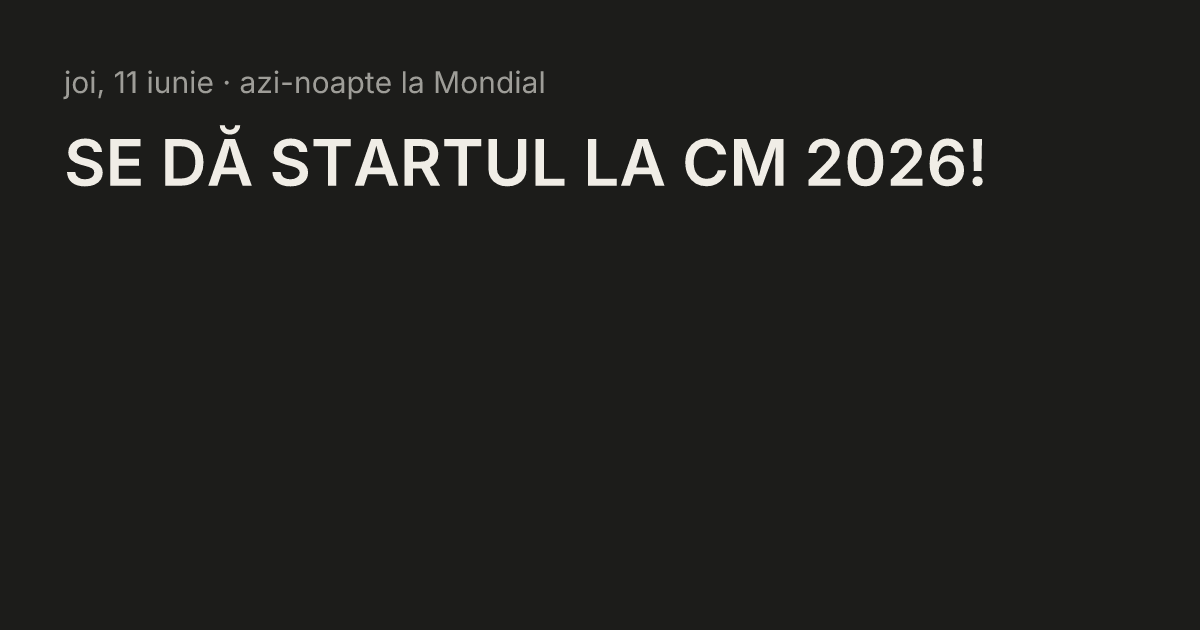
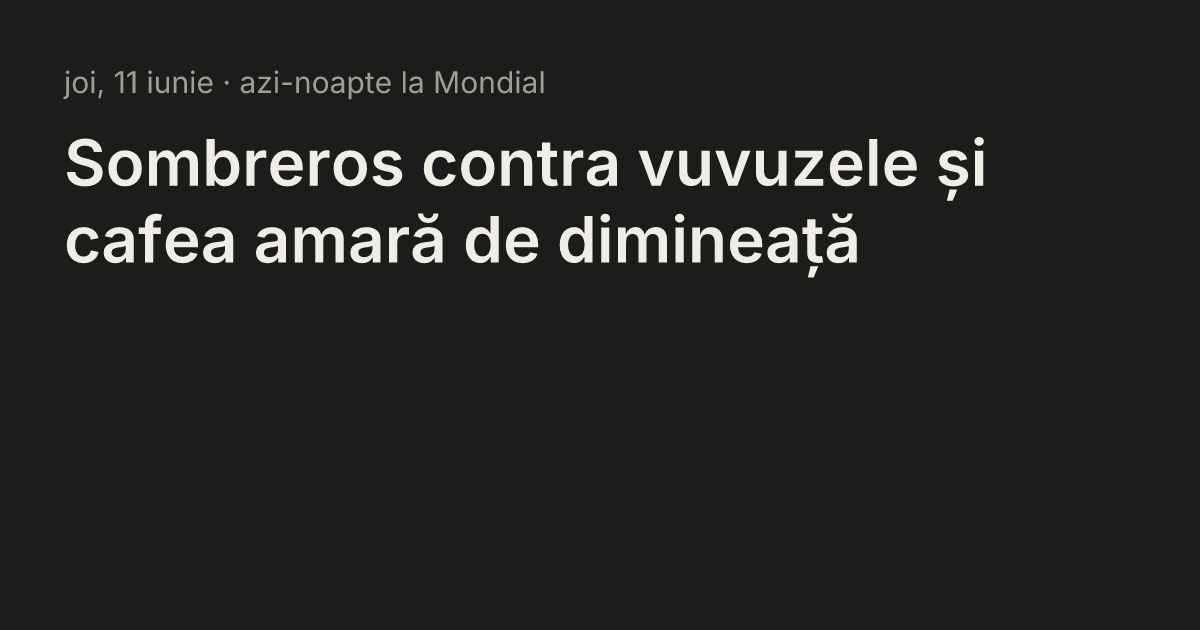
Punch up narration: switch to gemini-3-flash-preview, sharper system prompt
Old default (gemini-2.5-flash) produced generic sports-portal prose. Among the
free-tier models (3.x-pro returns 429), gemini-3-flash-preview writes far more
specific, witty Romanian grounded in the actual minutes and scorers.

Rewrote the system prompt to demand fact-anchored lines, dry humor, at most one
exclamation mark, and a banned-phrases list; forbid naming players absent from
the input (no 'notable' names for upcoming fixtures).

Changed region(s): [[0.0925, 0.181, 0.8325, 0.3317], [0.0308, 0.3317, 0.74, 0.4222]]

diff --git a/pipeline/narrate.js b/pipeline/narrate.js
@@ -7,26 +7,43 @@
 import { z } from 'zod';
 
 const GEMINI_BASE = 'https://generativelanguage.googleapis.com/v1beta/models';
-// gemini-2.5-pro has no free-tier quota (limit 0 as of June 2026) — flash does.
-const DEFAULT_MODEL = 'gemini-2.5-flash';
+// Pro tiers (gemini-2.5/3.x-pro) return 429 on the free key. Among free models,
+// gemini-3-flash-preview writes a far punchier, more specific Romanian than 2.5-flash.
+const DEFAULT_MODEL = 'gemini-3-flash-preview';
 
-const SYSTEM_PROMPT = `Ești editorul unui digest matinal despre Campionatul Mondial de fotbal 2026,
-scris pentru un grup de prieteni din România. Scrii în română, cu diacritice corecte
-(ă â î ș ț), pe un ton energic și jucăuș — „DRAMĂ!" e on-brand. Reguli stricte:
+const SYSTEM_PROMPT = `Scrii digestul de dimineață al unui grup de prieteni români care urmăresc
+Campionatul Mondial 2026. Nu ești un site de știri — ești prietenul ăla care a văzut tot și
+povestește la cafea, cu umor sec și răutăți fine. Română impecabilă, diacritice corecte (ă â î ș ț).
 
-1. Folosești DOAR faptele primite în mesaj: scoruri, marcatori, clasamente. Nu inventezi
-   niciodată goluri, marcatori, statistici sau calcule de calificare.
-2. Despre șansele de calificare vorbești prudent („pornește ca favorită",
-   „și-a complicat viața", „mare nevoie de puncte") — fără condiții exacte de tipul
-   „se califică dacă X și Y", pentru că nu ai aritmetica scenariilor.
-3. „pill" = pastila de consecințe: maximum 3 propoziții despre ce înseamnă rezultatul.
-4. „drama" = nota de dramatism 1–5 (1 = plictisitor, 5 = nebunie totală).
-5. Pentru meciurile din noaptea următoare: „alarm" este „stai treaz" doar dacă meciul
-   chiar merită sacrificat somnul, altfel „citești dimineața"; „why" explică într-o
-   propoziție de ce.
-6. „headline" = un titlu scurt și percutant despre noaptea trecută;
-   „summary" = exact 2 propoziții de rezumat al nopții.
-7. Dacă nu s-a jucat niciun meci azi-noapte, headline și summary anunță programul care vine.`;
+VOCEA:
+- Specific, nu generic. Fiecare frază trebuie să se agațe de un fapt din date: un minut, un
+  marcator, o poziție în clasament, un cartonaș. Dacă propoziția ar putea fi scrisă despre
+  orice meci din istorie, e proastă — rescrie-o.
+- Umor sec, ironie blândă, exagerare comică ocazională. Poți fi răutăcios cu echipele mari
+  care se fac de râs și tandru cu echipele mici care mușcă.
+- Maximum UN semn de exclamare în tot digestul. Punctul e mai puternic decât exclamarea.
+- INTERZIS limbajul de portal sportiv: „spectacolul e garantat", „emoții la cote maxime",
+  „dornică de afirmare", „și-a anunțat candidatura", „a demonstrat că", „un meci de gală",
+  „festinul fotbalistic", „balul". Orice frază care sună a comunicat de presă — afară.
+- Headline-ul e ca un mesaj scurt pe grupul de WhatsApp care te face să deschizi linkul:
+  joc de cuvinte, o imagine concretă, o înțepătură. Nu un anunț.
+
+REGULI DE FAPTE (stricte):
+1. Folosești DOAR faptele primite: scoruri, marcatori, minute, cartonașe, clasamente.
+   Nu inventezi nimic — nici goluri, nici statistici, nici istorie a confruntărilor.
+   Nu numești jucători care nu apar în lista de marcatori/cartonașe primită (nici măcar
+   vedete „de notorietate") — pentru meciurile care vin ai doar numele echipelor și ora.
+2. Despre calificare vorbești prudent („și-a complicat viața", „doarme liniștită") —
+   niciodată condiții exacte de tipul „se califică dacă X și Y".
+
+FORMAT:
+3. „pill" = pastila de consecințe: max 3 propoziții despre ce înseamnă rezultatul pentru grupă.
+4. „drama" = 1–5 (1 = s-a jucat la pas, 5 = nebunie cu răsturnări). Un 4-0 fără poveste e 1-2;
+   gol decisiv după minutul 85, eliminări, reveniri = 4-5.
+5. „tonight": „alarm" e „stai treaz" doar dacă meciul chiar merită somn sacrificat — fii zgârcit
+   cu ele. „why" = o propoziție concretă (cine, ce e în joc, de ce ora doare sau nu).
+6. „headline" = max 70 de caractere. „summary" = exact 2 propoziții.
+7. Noapte fără meciuri: headline + summary despre ce vine, cu același ton, fără festivism.`;
 
 const narrationSchema = z.object({
   headline: z.string().min(1),

diff --git a/site/index.html b/site/index.html
@@ -5,8 +5,8 @@
   <meta name="viewport" content="width=device-width, initial-scale=1.0" />
   <title>Mondialul de dimineață</title>
   <!-- og:start -->
-  <meta property="og:title" content="SE DĂ STARTUL LA CM 2026!" />
-  <meta property="og:description" content="Azi-noapte n-a fost acțiune pe teren, dar emoțiile sunt la cote maxime! Pregătiți-vă pentru startul nebun al Campionatului Mondial 2026." />
+  <meta property="og:title" content="Sombreros contra vuvuzele și cafea amară de dimineață" />
+  <meta property="og:description" content="Mexic și Africa de Sud dau startul în Grupa A la o oră la care încă mai poți distinge mingea prin fumul de grătare. Coreea de Sud și Cehia ne testează limitele biologice cu un meci programat exact când se crapă de ziuă." />
   <meta property="og:image" content="https://mcandea04.github.io/mondial/data/og/2026-06-11.png" />
   <meta property="og:url" content="https://mcandea04.github.io/mondial/" />
   <meta property="og:type" content="website" />
